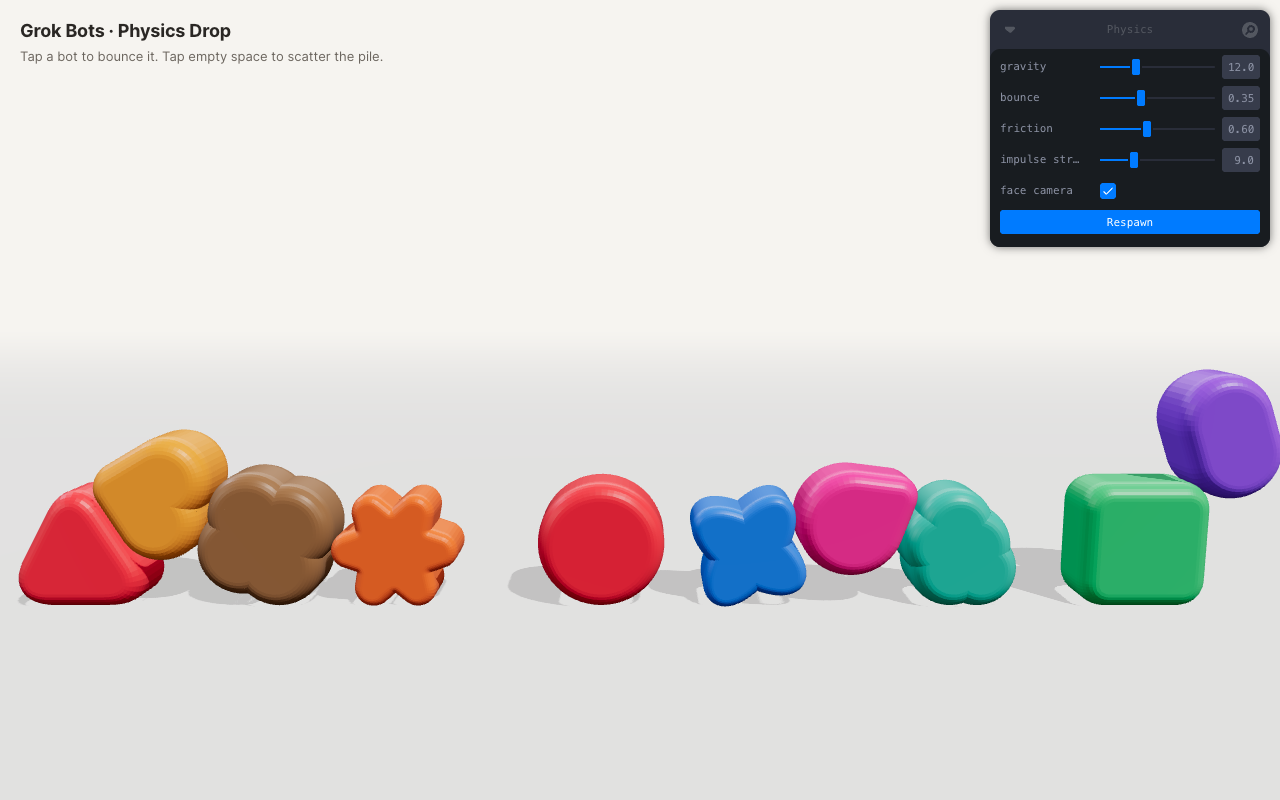
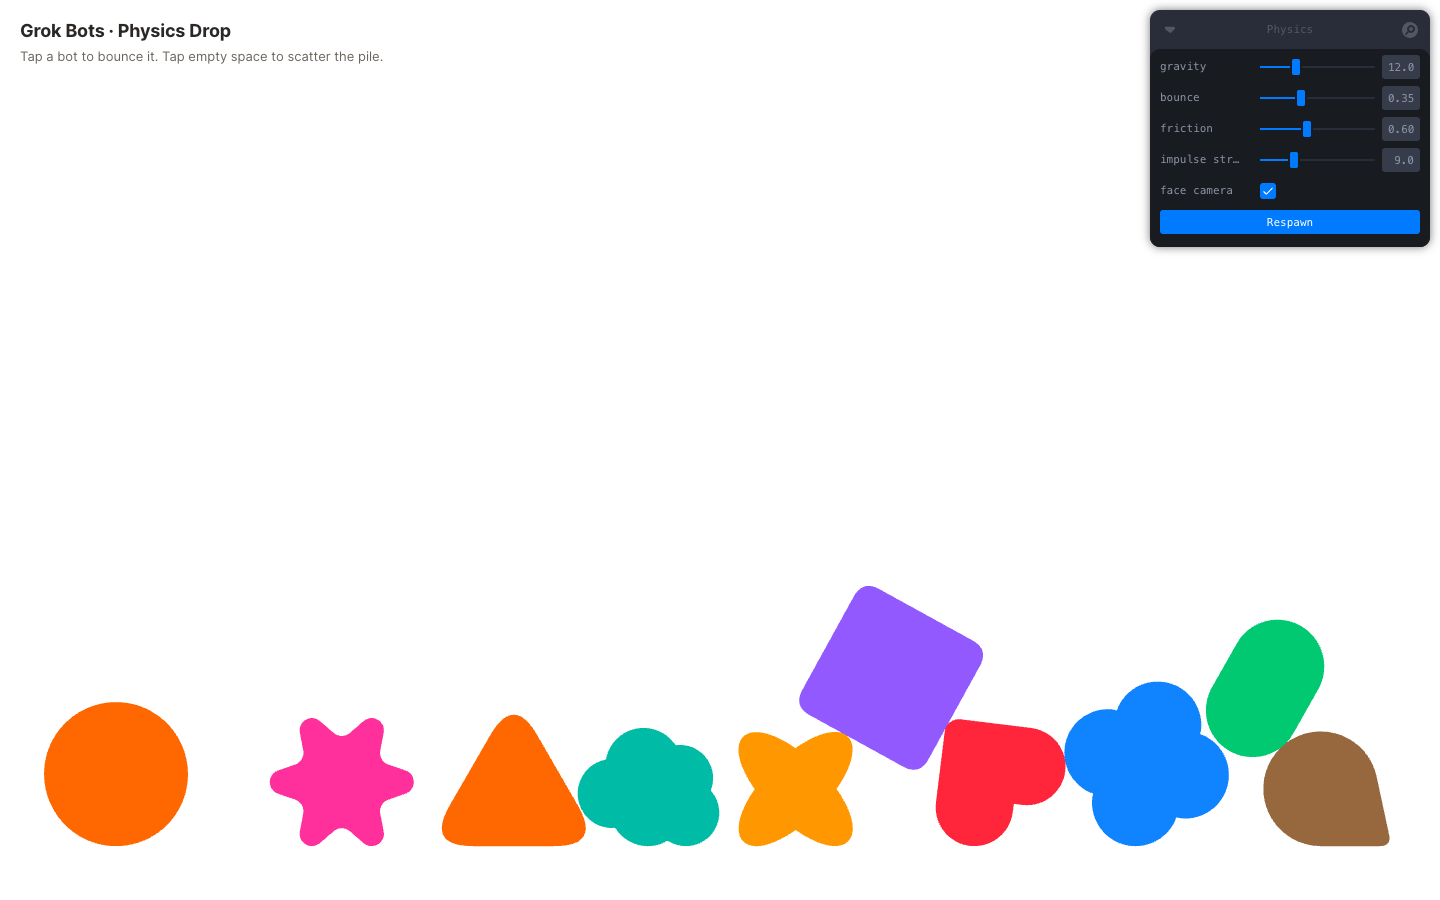
Match Base shapes v2 look: flat unlit fills on white, orthographic straight-on camera, no lights/shadows/floor visual

diff --git a/src/Scene.tsx b/src/Scene.tsx
@@ -1,7 +1,6 @@
-import { useCallback, useMemo, useRef, useState } from "react";
-import * as THREE from "three";
+import { useCallback, useLayoutEffect, useMemo, useRef, useState } from "react";
+import type * as THREE from "three";
 import { Canvas, useThree, type ThreeEvent } from "@react-three/fiber";
-import { ContactShadows, Environment, Lightformer } from "@react-three/drei";
 import { CuboidCollider, Physics, RigidBody, type RapierRigidBody } from "@react-three/rapier";
 import { button, useControls } from "leva";
 import { Bot } from "./Bot";
@@ -12,11 +11,13 @@ import { StatusOverlay, detectWebGL, useGlobalErrors, useRapierReady } from "./S
 /** Front-to-back thickness of the play space; keeps the pile readable. */
 const SLAB_DEPTH = 3.2;
 const FLOOR_Y = 0;
-const CAMERA_POS: [number, number, number] = [0, 4.5, 13];
-const CAMERA_TARGET: [number, number, number] = [0, 2.6, 0];
-const CAMERA_FOV = 42;
-const BACKGROUND = "#f7f5f1";
-const FLOOR_COLOR = "#e9e5de";
+/** World units visible top-to-bottom; width follows the aspect ratio. */
+const VIEW_HEIGHT = 10;
+/** Floor sits this far above the bottom edge of the viewport. */
+const FLOOR_PADDING = 0.6;
+const CAMERA_Y = FLOOR_Y - FLOOR_PADDING + VIEW_HEIGHT / 2;
+/** Stage colour of the Base shapes v2 tool (`--bg: 255 255 255`). */
+const BACKGROUND = "#ffffff";
 
 type Spawn = {
   position: [number, number, number];
@@ -42,35 +43,29 @@ function randomSpawns(count: number, halfWidth: number, topY: number, faceCamera
 }
 
 /**
- * Where the camera frustum meets the play plane (z = 0), for the current
- * aspect ratio: half the visible width at the floor line, and the world y of
- * the top edge of the viewport. Walls hug the former; spawns start above the
- * latter so bots always fall into view.
+ * Orthographic camera looking straight down -Z at the play plane. Zoom is set
+ * so VIEW_HEIGHT world units always fill the viewport height, whatever the
+ * aspect ratio, and the floor sits just above the bottom edge.
  */
-function useFrustumBounds() {
+function CameraRig() {
   const { camera, size } = useThree();
-  return useMemo(() => {
-    // Work on a copy with the aspect for this size applied, so the result is
-    // right even if r3f has not yet resized the live camera this frame.
-    const cam = (camera as THREE.PerspectiveCamera).clone();
-    cam.aspect = size.width / size.height;
+  useLayoutEffect(() => {
+    const cam = camera as THREE.OrthographicCamera;
+    cam.position.set(0, CAMERA_Y, 40);
+    cam.rotation.set(0, 0, 0);
+    cam.zoom = size.height / VIEW_HEIGHT;
     cam.updateProjectionMatrix();
-    cam.updateMatrixWorld();
+  }, [camera, size.height]);
+  return null;
+}
 
-    const floor = new THREE.Vector3(0, FLOOR_Y, 0).project(cam);
-    const hitPlaneZ0 = (ndcX: number, ndcY: number) => {
-      const a = new THREE.Vector3(ndcX, ndcY, -1).unproject(cam);
-      const b = new THREE.Vector3(ndcX, ndcY, 1).unproject(cam);
-      const t = (0 - a.z) / (b.z - a.z);
-      return a.lerp(b, t);
-    };
-    const right = hitPlaneZ0(1, floor.y);
-    const top = hitPlaneZ0(0, 1);
-    return {
-      halfWidth: Math.max(1.5, right.x - 0.3),
-      topY: Math.max(6, top.y),
-    };
-  }, [camera, size.width, size.height]);
+/** Visible half-width at the play plane and the world y of the top edge. */
+function useViewBounds() {
+  const { size } = useThree();
+  return useMemo(() => {
+    const halfWidth = (VIEW_HEIGHT / 2) * (size.width / size.height);
+    return { halfWidth: Math.max(1.5, halfWidth - 0.05), topY: CAMERA_Y + VIEW_HEIGHT / 2 };
+  }, [size.width, size.height]);
 }
 
 type Settings = {
@@ -82,7 +77,7 @@ type Settings = {
 };
 
 function World({ settings, generation }: { settings: Settings; generation: number }) {
-  const { halfWidth, topY } = useFrustumBounds();
+  const { halfWidth, topY } = useViewBounds();
   const bots = useMemo(() => getBotGeometries(), []);
   const bodies = useRef<(RapierRigidBody | null)[]>([]);
 
@@ -170,7 +165,7 @@ function World({ settings, generation }: { settings: Settings; generation: numbe
       ))}
 
       {/* Click-catcher for empty space: an invisible plane through the slab centre. */}
-      <mesh position={[0, 12, 0]} onPointerDown={burst}>
+      <mesh position={[0, 12, -6]} onPointerDown={burst}>
         <planeGeometry args={[400, 400]} />
         <meshBasicMaterial transparent opacity={0} depthWrite={false} />
       </mesh>
@@ -178,36 +173,12 @@ function World({ settings, generation }: { settings: Settings; generation: numbe
   );
 }
 
-/** Everything that should be visible even if physics never loads. */
+/** The stage is just the tool's white paper: no lights, no floor, no shadows. */
 function Stage() {
   return (
     <>
       <color attach="background" args={[BACKGROUND]} />
-      <fog attach="fog" args={[BACKGROUND, 24, 70]} />
-      <hemisphereLight args={["#ffffff", "#d8d2c8", 0.7]} />
-      <directionalLight
-        position={[6, 12, 8]}
-        intensity={2.2}
-        castShadow
-        shadow-mapSize={[2048, 2048]}
-        shadow-bias={-0.0004}
-        shadow-camera-left={-16}
-        shadow-camera-right={16}
-        shadow-camera-top={16}
-        shadow-camera-bottom={-6}
-      />
-      <directionalLight position={[-8, 6, -4]} intensity={0.6} color="#dfe8ff" />
-      <Environment resolution={128}>
-        <Lightformer intensity={2} position={[0, 6, -6]} scale={[12, 4, 1]} />
-        <Lightformer intensity={1.2} position={[-8, 3, 4]} rotation-y={Math.PI / 2} scale={[8, 3, 1]} />
-        <Lightformer intensity={1} position={[8, 3, 4]} rotation-y={-Math.PI / 2} scale={[8, 3, 1]} color="#ffe9d6" />
-      </Environment>
-
-      <mesh rotation={[-Math.PI / 2, 0, 0]} position={[0, FLOOR_Y - 0.001, 0]} receiveShadow>
-        <planeGeometry args={[400, 400]} />
-        <meshStandardMaterial color={FLOOR_COLOR} roughness={1} />
-      </mesh>
-      <ContactShadows position={[0, FLOOR_Y + 0.002, 0]} opacity={0.55} scale={50} blur={2.2} far={6} resolution={1024} color="#3a3530" />
+      <CameraRig />
     </>
   );
 }
@@ -242,10 +213,10 @@ export function Scene() {
   return (
     <>
       <Canvas
-        shadows
+        flat
+        orthographic
         dpr={[1, 2]}
-        camera={{ position: CAMERA_POS, fov: CAMERA_FOV, near: 0.1, far: 200 }}
-        onCreated={({ camera }) => camera.lookAt(...CAMERA_TARGET)}
+        camera={{ position: [0, CAMERA_Y, 40], near: 0.1, far: 100 }}
         style={{ touchAction: "none" }}
       >
         <Stage />

diff --git a/src/geometry.ts b/src/geometry.ts
@@ -35,23 +35,17 @@ export function buildBotGeometry(shape: BotShape): BotGeometry {
   const shapes = pathToShapes(shape.path);
   const unit = BOT_SIZE / SHAPE_BOX;
   const depth = BOT_SIZE * DEPTH_RATIO;
-  // A big bevel is what gives the puffy pillow read. It eats inward on
-  // concave shapes (sparkle, flower points), so keep it modest there.
-  const spiky = shape.id === "sparkle" || shape.id === "star6";
-  const bevel = (spiky ? 0.1 : 0.2) * BOT_SIZE;
-
+  // No bevel: seen straight on with a flat fill, the front silhouette must
+  // be the SVG outline itself. The extrusion only exists for the physics.
   const extruded = new THREE.ExtrudeGeometry(shapes, {
     depth: depth / unit,
-    bevelEnabled: true,
-    bevelThickness: bevel / unit,
-    bevelSize: (bevel * 0.85) / unit,
-    bevelSegments: 8,
+    bevelEnabled: false,
     curveSegments: 12,
     steps: 1,
   });
 
-  // Extrude output is non-indexed (flat shaded). Welding vertices lets the
-  // recomputed normals flow smoothly over the bevel, which is the pillow look.
+  // Extrude output is non-indexed; welding shrinks the vertex cloud the hull
+  // collider is built from.
   const geometry = mergeVertices(extruded, 1e-3) as THREE.ExtrudeGeometry;
   extruded.dispose();
 

diff --git a/src/Bot.tsx b/src/Bot.tsx
@@ -55,17 +55,9 @@ export const Bot = forwardRef<RapierRigidBody, Props>(function Bot(
     return desc ? pts : null;
   }, [bot, rapier]);
 
+  // Flat ink fill, like the Base shapes v2 tool: unlit, exact token color.
   const material = useMemo(
-    () =>
-      new THREE.MeshPhysicalMaterial({
-        color,
-        roughness: 0.42,
-        metalness: 0,
-        clearcoat: 0.35,
-        clearcoatRoughness: 0.5,
-        sheen: 0.4,
-        sheenColor: new THREE.Color(color).lerp(new THREE.Color("#ffffff"), 0.4),
-      }),
+    () => new THREE.MeshBasicMaterial({ color, toneMapped: false }),
     [color],
   );
 
@@ -100,13 +92,7 @@ export const Bot = forwardRef<RapierRigidBody, Props>(function Bot(
       ) : (
         <CuboidCollider args={[he.x, he.y, he.z]} restitution={restitution} friction={friction} />
       )}
-      <mesh
-        geometry={bot.geometry}
-        material={material}
-        castShadow
-        receiveShadow
-        onPointerDown={handlePointerDown}
-      />
+      <mesh geometry={bot.geometry} material={material} onPointerDown={handlePointerDown} />
     </RigidBody>
   );
 });

diff --git a/src/App.css b/src/App.css
@@ -1,7 +1,7 @@
 .app {
   position: fixed;
   inset: 0;
-  background: #f6f4f0;
+  background: #ffffff;
 }
 
 .app canvas {

diff --git a/README.md b/README.md
@@ -1,10 +1,12 @@
 # Grok Bots · Physics Drop
 
-A standalone web prototype: the ten Grok Bot "Base shapes v2" bodies, extruded
-into soft 3D pillows in their brand colors, dropped into a physics box where they
-stack, settle, and can be poked around.
+A standalone web prototype: the ten Grok Bot "Base shapes v2" bodies as flat,
+solid-color silhouettes (matching the Sand-Toolkit tool's look: unlit ink fill on
+white, no shading or shadows), dropped into a physics box where they stack, settle,
+and can be poked around. The camera is orthographic and straight-on; the bodies
+are extruded only so Rapier has real 3D colliders.
 
-![Ten puffy bots settled on the floor](docs/screenshot.png)
+![Ten flat bots settled on the floor](docs/screenshot.png)
 
 Built with Vite, React, TypeScript, three.js, React Three Fiber, drei, Rapier
 (`@react-three/rapier`) and Leva.
@@ -61,12 +63,13 @@ Copied read-only from the Sand-Toolkit repo:
 
 ## How it works
 
-- `src/geometry.ts` parses each path with three's `SVGLoader`, extrudes it with a
-  rounded bevel, welds vertices for smooth shading, flips SVG's y-down to y-up,
-  normalizes every body to the same footprint, and centres it.
+- `src/geometry.ts` parses each path with three's `SVGLoader`, extrudes it (no
+  bevel, so the front silhouette is exactly the SVG outline), flips SVG's y-down
+  to y-up, normalizes every body to the same footprint, and centres it. Bodies
+  use an unlit `MeshBasicMaterial` with the exact token hex.
 - `src/Bot.tsx` wraps each mesh in a Rapier `RigidBody` with a convex-hull
   collider built from a thinned copy of the mesh vertices. If Rapier cannot build
   a hull it falls back to a ball or box collider.
-- `src/Scene.tsx` sets up the floor, invisible walls at the viewport edges, a
-  shallow front/back slab, lighting, contact shadows, click handling and the Leva
-  panel.
+- `src/Scene.tsx` sets up an orthographic camera looking down -Z, an invisible
+  floor and walls at the viewport edges (derived from the view size), a shallow
+  front/back slab for 3D mode, click handling and the Leva panel.
